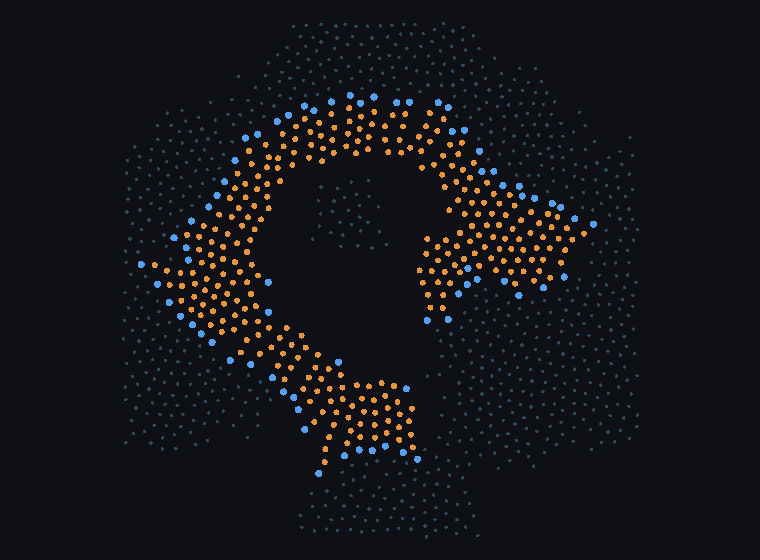
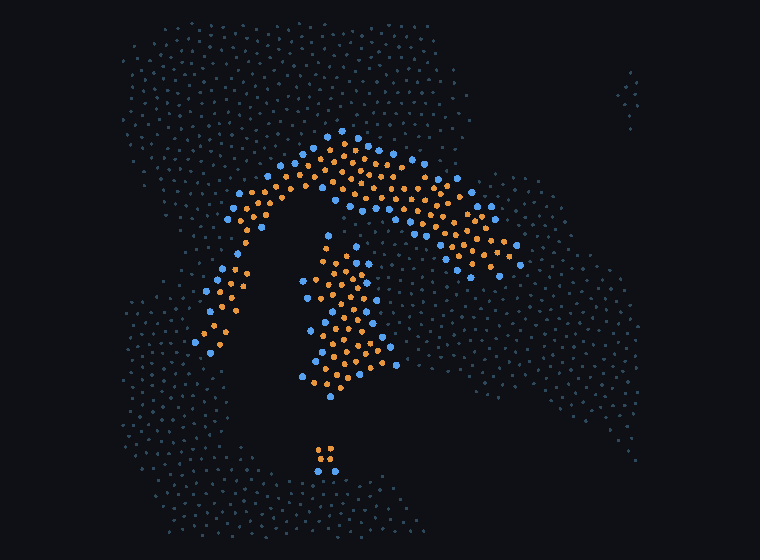
vivarium: switch _emerge2d to the inertial integrator; two fluid-regime runs in flight
_emerge2d still used the hand-rolled overdamped loop at dt = 2e-4 and would have run 28x slower than
necessary. Now on the validated inertial integrator at dt = 8e-3, as _mixture and _sizing3d already
were.

Launched at the one regime measured to be both fluid and intact (kT = 0.45, two tails):
  * planted arc0.75, 70 lipids, 100000 steps -- tests whether fluidity permits closure;
  * self-assembly from dispersed, 70 lipids, 150000 steps (1200 reduced time, ~15x the longest
    previous 2-D assembly run) -- tests the actual target.

Interim, explicitly NOT read as trends since both are early and the arc is a planted structure:
arc at 40000 steps has R_mid 5.68 -> 7.96 and shell CV 0.283 -> 0.455; assembly at 15000 steps has
largest 53/70 and no ring.

Render check: mix2d_arc0.75_N70_s0000000.png confirms the plant is a genuine three-quarter bilayer
ring with heads on both surfaces, so the arc result will be about closure rather than about a bad
initial condition.

Claude-Session: https://claude.ai/code/session_017Ld9DgPtjwxx7hhxTDgxgL

diff --git a/projects/vivarium/_emerge2d.py b/projects/vivarium/_emerge2d.py
@@ -30,6 +30,7 @@ import numpy as np
 
 from _mixture import build, geometry, largest_cluster, shot
 from field import Field
+from integrate import Inertial
 from ring_assay import classify
 
 
@@ -52,9 +53,9 @@ if __name__ == "__main__":
     X, species, bonds, mols, wi, chains = build(0, n_lip, n_water, L, d, plant="random")
     mol = np.array([m for m in mols])
     f = Field(species, bonds, L)
-    gamma, dt = 1.0, 2e-4
-    rng = np.random.default_rng(1)
-    amp = np.sqrt(2.0 * kT * dt / gamma)
+    # inertial at the validated dt = 8e-3: same equilibrium ensemble, 28x more reduced time per minute
+    dt = 8e-3
+    ig = Inertial(f, kT, dt, seed=1)
 
     print(f"EMERGENCE 2-D: {n_lip} lipids (1 head + {n_tail} tails) + {n_water} water, L={L}, "
           f"kT={kT}, dispersed start, {steps} steps", flush=True)
@@ -66,8 +67,7 @@ if __name__ == "__main__":
     hollow = 0
     checks = 0
     for t in range(steps + 1):
-        X += (f.forces(X) / gamma) * dt + amp * rng.normal(size=X.shape)
-        X -= L * np.round(X / L)
+        X = ig.step(X)
         if t % every == 0:
             v, dd = classify(View(X, mol, wi, L, 2))
             g = geometry(X, mols, wi, chains, L, d)

diff --git a/projects/vivarium/docs/AUTONOMOUS_LOG.md b/projects/vivarium/docs/AUTONOMOUS_LOG.md
@@ -141,3 +141,31 @@ can produce. Verdicts from the first pass are withdrawn.
 cell -- 100000 inertial steps. Prediction: it closes, or at least the ends approach rather than tear.
 Falsification: if it tears like the kT = 0.55 four-tail arc (largest 70 -> 38) or sits open like the
 kT = 0.17 one, then fluidity is not sufficient for closure and the blocker is elsewhere.
+
+---
+
+## 2026-08-18 tick — two runs in flight in the fluid regime
+
+**Verified the planted initial condition by render.** `mix2d_arc0.75_N70_s0000000.png` shows a clean
+three-quarter bilayer ring: heads on both the outer and inner surfaces, tails between. The plant is
+what it claims to be, which matters because the arc result depends on starting from a real bilayer.
+
+**Running, both at the one qualifying regime (kT = 0.45, two tails):**
+
+1. Planted arc0.75, 70 lipids, L = 40, 100000 inertial steps. Falsification stated last entry: if it
+   tears like the kT = 0.55 four-tail arc (70 -> 38) or sits open like the kT = 0.17 one, fluidity is
+   not sufficient for closure. At 40000 steps R_mid has gone 5.68 -> 7.96 and shell CV 0.283 -> 0.455,
+   i.e. expanding and losing shell character, with largest fluctuating 47-70. NOT read as a trend --
+   this is a planted structure and early checkpoints mostly show the plant relaxing.
+
+2. Self-assembly from dispersed, 70 lipids, L = 28, 150000 inertial steps. This is the actual target
+   rather than a diagnostic. At 15000 steps: largest 53/70, fragmented, no ring.
+
+**Fixed.** `_emerge2d` still carried the hand-rolled overdamped loop and would have run 28x slower
+than necessary. Switched to the validated inertial integrator, as `_mixture` and `_sizing3d` already
+were.
+
+**Falsification for the assembly run, stated now.** If no checkpoint in 150000 steps (1200 reduced
+time, ~15x the longest previous 2-D assembly run) is classified HOLLOW, and the largest aggregate
+stays below 0.9 of the lipids, then fluidity alone does not produce emergence either, and the next
+question is nucleation rate rather than membrane phase.
